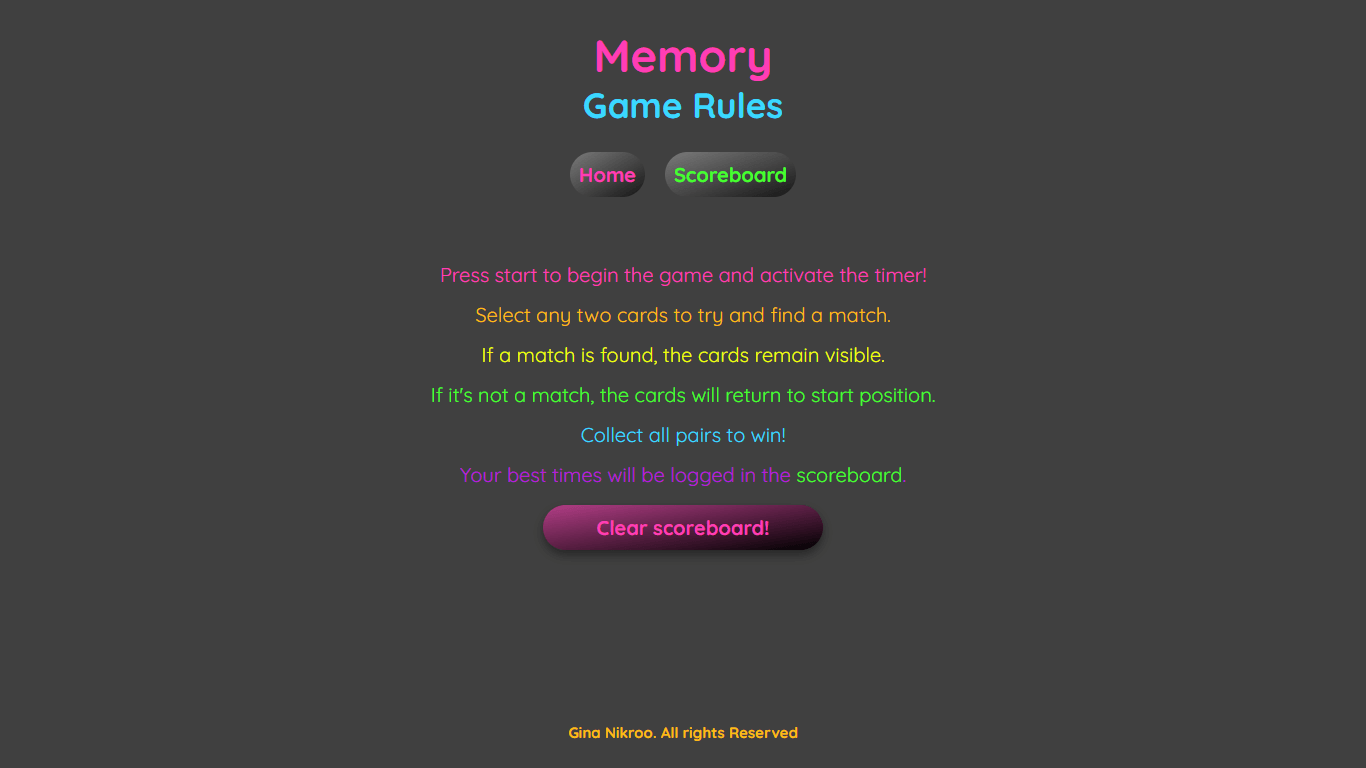
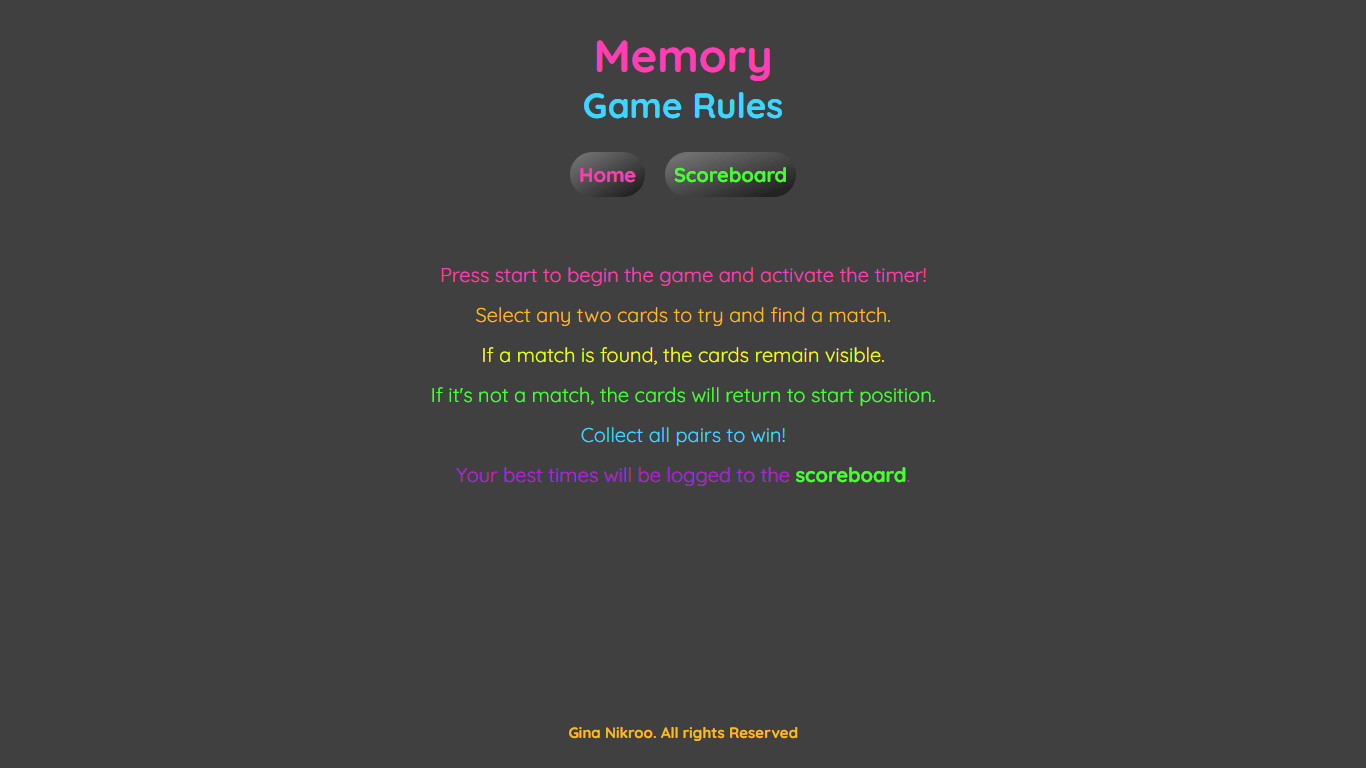
doc: Final update to README

Changed region(s): [[0.3382, 0.5938, 0.6764, 0.7188]]

diff --git a/README.md b/README.md
@@ -61,7 +61,7 @@ To open links in a new browser tab, press CTRL + Click.
 * As someone with impaired vision, I want to be able to use a screen reader to help me play the game
 
 #### Site Functionality
-The goal of the site is to provide an easy to navigate game with an engaging design. Users have control over the level of challange (playing aginst the clock, playing against their past records, simply playing to win) as well as what happens to their information. A user can choose to store their score or not to. A user can also choose to clear their local storage at any time right from the Game Rules page. The site is written in semantic HTML allowing users to easily navigate using a screen reader. 
+The goal of the site is to provide an easy to navigate game with an engaging design. Users have control over the level of challange (playing aginst the clock, playing against their past records, simply playing to win) as well as what happens to their information. A user can choose to store their score or not to. A user can also choose to clear their local storage at any time right from the Scoreboard page. The site is written in semantic HTML allowing users to easily navigate using a screen reader. 
 
 ### Scope
 #### Features 
@@ -91,7 +91,7 @@ User Stories: Acceptance Criteria: Implementation
 * Acceptance Criteria:
   * A user should be able to choose what and when their information is stored.
 * Implementation:
-  * After winning the game, the user is prompted by the modal to put in their name which the user can ignore by clicking outside of the pop-up. If they choose to store their score, they can clear the local storage at any time by pressing the clear scoreboard button located in Game Rules. By placing the button on a seperate page, the risk for the user to accidentally press the button when reviewing the scores is lessened.
+  * After winning the game, the user is prompted by the modal to put in their name which the user can ignore by clicking outside of the pop-up. If they choose to store their score, they can clear the local storage at any time by pressing the Clear Scoreboard! button located in Scoreboard.
 > As a someone with impaired vision, I want to be able to use a screen reader to help me play the game
 * Acceptance Criteria:
   * The document should be written in semantic HTML.
@@ -109,6 +109,8 @@ User Stories: Acceptance Criteria: Implementation
 ### Surface
 The game was designed to provide a fun, time wasting game that is pleasing to the eye. It is simple and yet provides the opportunity for challenge when desired. The buttons and links are designed to be eye catching so that the user can easily find what is needed yet blends seamlessly with the overall design so as not to distract from the game. You can find the game rules and scoreboard at the top of the screen. By following either, you can easily navigate to any other page you’d like. The design is smooth with buttons and input fields rounded to complement the 1990’s, neon aesthetic of the cards and font colors. 
 ![Homepage](assets/images/homepage.png)
+![Game Rules](assets/images/game-rules.png)
+![Scoreboard](assets/images/scoreboard.png)
 
 #### VISUAL
 The size of cards is adjusted according to user’s total screen width. This allows for comfortable playing without the need to scroll during gameplay.
@@ -143,10 +145,9 @@ Once all cards are flipped over, the user has won. A modal appears after winning
 * CSS - W3C CSS Validation Service - Jigsaw
   * No errors were found. [Report](https://jigsaw.w3.org/css-validator/validator?uri=https%3A%2F%2Fgnikroo.github.io%2FProject-2%2F&profile=css3svg&usermedium=all&warning=1&vextwarning=&lang=en) 
 * JavaScript - JSHint.com
-  * No errors were found for all .js files. 
+  * No errors were found for either .js files. 
     * [Script Report](assets/images/script-js.jpg)
-    * [Scoreboard Report](assets/images/score-js.jpg) 
-    * [Game Rules Report](assets/images/rule-js.png)
+    * [Scoreboard Report](assets/images/score-js.png)
 * Lighthouse
   * Mobile: 93, 100, 100, 92
     * ![Mobile](assets/images/lighthouse-mobile.png) 
